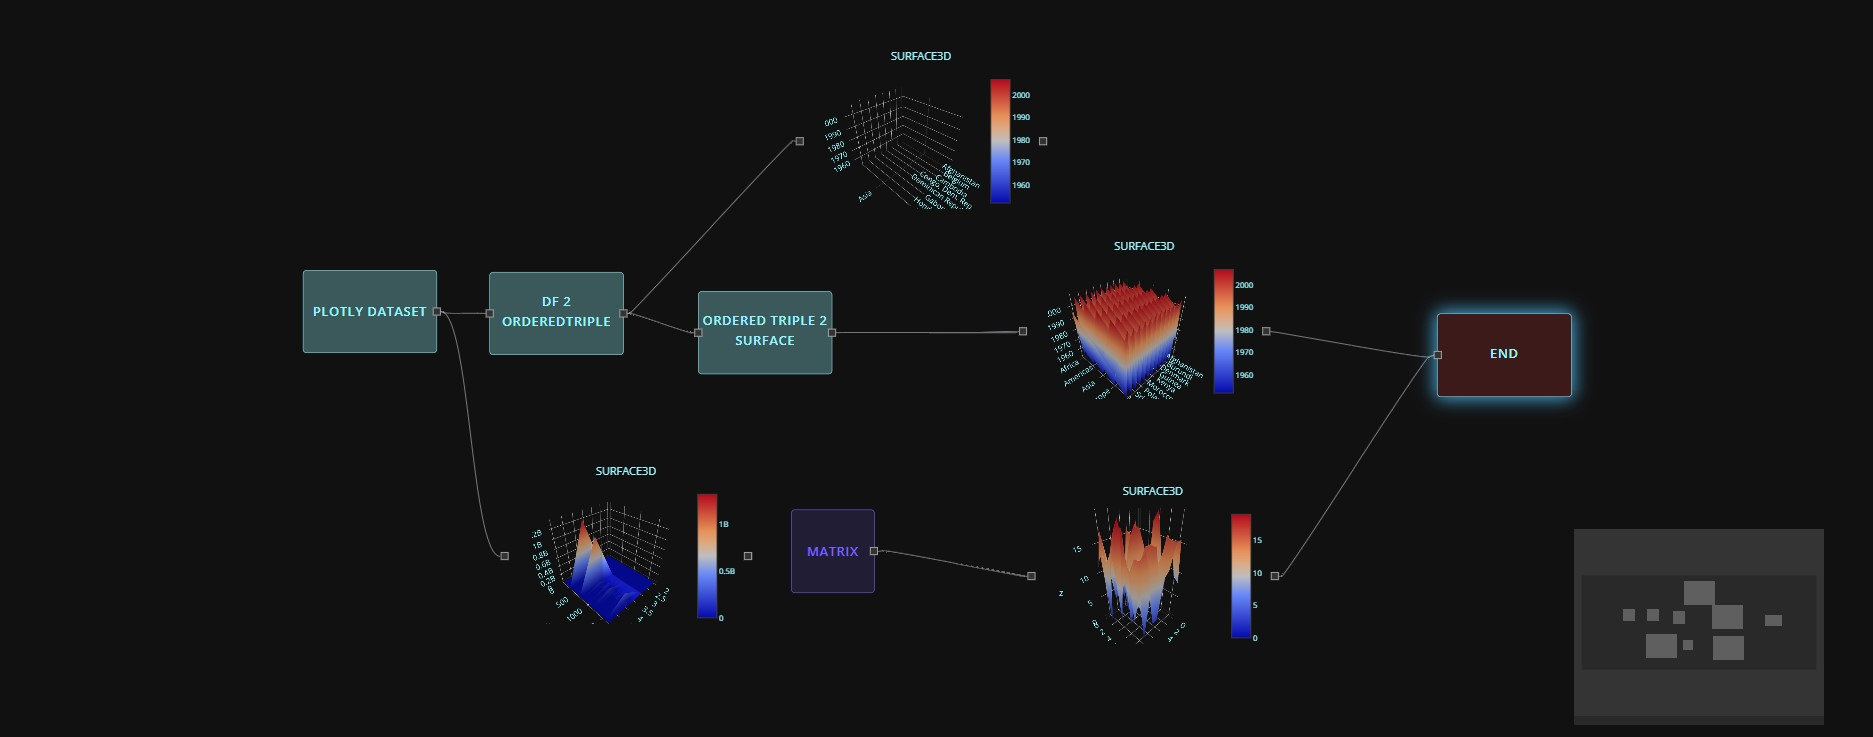
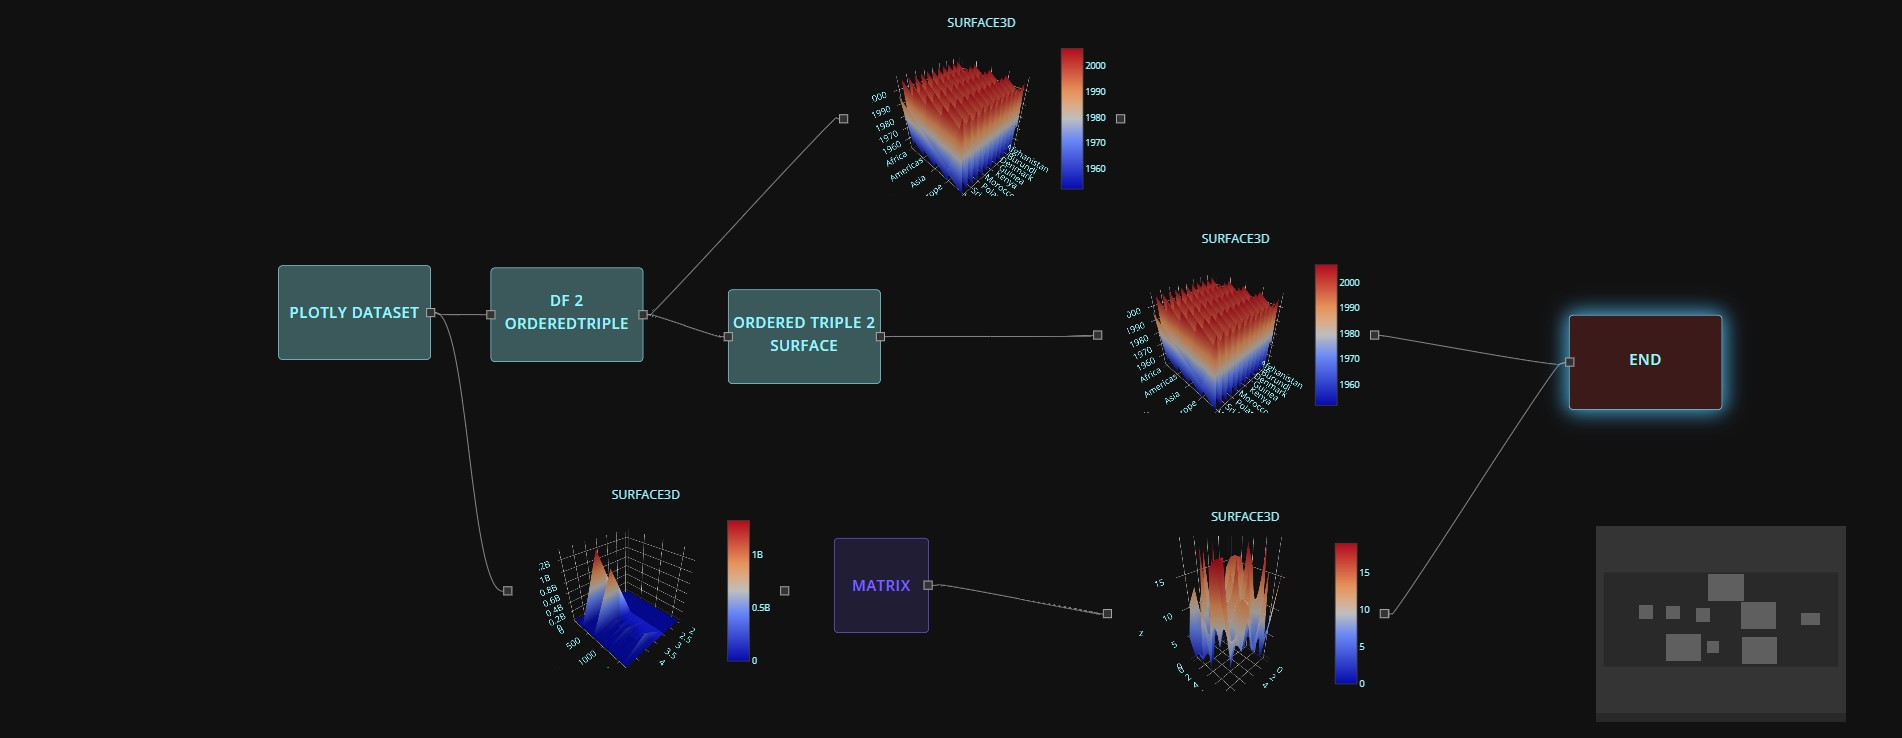
update output image for SURFACE3D node

diff --git a/VISUALIZERS/PLOTLY/SURFACE3D/SURFACE3D.py b/VISUALIZERS/PLOTLY/SURFACE3D/SURFACE3D.py
@@ -19,14 +19,25 @@ def SURFACE3D(default: OrderedTriple | DataFrame | Surface | Matrix) -> Plotly:
     layout = plot_layout(title="SURFACE3D")
 
     if isinstance(default, OrderedTriple):
-        x = default.x
-        y = default.y
-        z = default.z
+        x = np.unique(default.x)
+        y = np.unique(default.y)
+
+        z_size = len(x) * len(y)
+
+        # Truncate or pad the z array to match the desired size
+        if z_size > len(default.z):
+            z = np.pad(
+                default.z, (0, z_size - len(default.z)), mode="constant"
+            ).reshape(len(y), len(x))
+        else:
+            z = default.z[:z_size].reshape(len(y), len(x))
+
+        X, Y = np.meshgrid(x, y)
         if z.ndim < 2:
             num_columns = len(z) // 2
             z = np.reshape(z, (2, num_columns))
         fig = go.Figure(
-            data=[go.Surface(x=x, y=y, z=z)],
+            data=[go.Surface(x=X, y=Y, z=z)],
             layout=layout,
         )
     elif isinstance(default, Surface):
